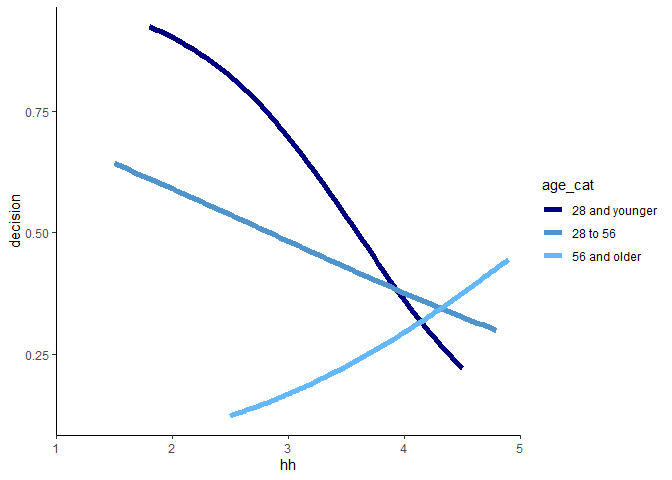
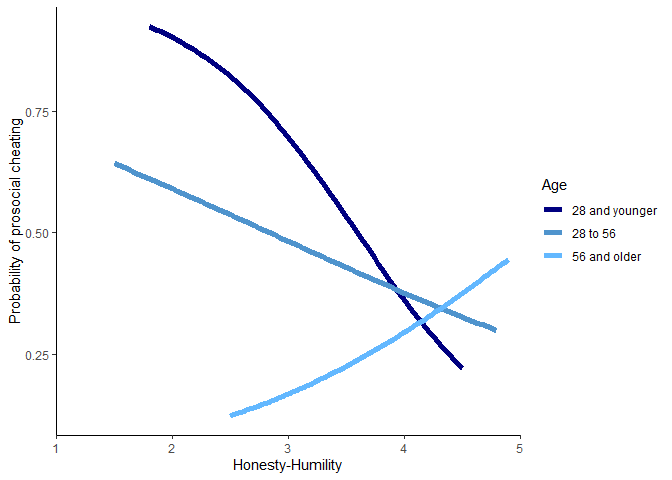
Done!

Changed region(s): [[0.0, 0.25, 0.0312, 0.6875], [0.3438, 0.9375, 0.5, 1.0], [0.7812, 0.375, 0.9062, 0.4062]]

diff --git a/portfolio-09.md b/portfolio-09.md
@@ -3,6 +3,40 @@ Portfolio-09
 Ben Hardin
 2023-04-20
 
+## Intro
+
+For this portfolio piece, I’m interested in running some moderation
+analyses with various combinations of dichotomous and continuous
+predictors and outcomes, and visualizing the results from those
+analyses. I’m also interested in learning a little bit about the
+relationship between the personality trait Honesty-Humility (HH) and
+benevolent lying. HH includes trait content related to both being nice
+to others and also being sincere and honest with others. Thus, it’s
+interesting to know what people who are relatively high on this trait do
+when telling the truth is not the nice thing to do.
+
+Luckily, there are two studies testing this question that have their
+data openly available on the internet (Thanks Paul, Ashton, & Lee (2022)
+and Thielmann, Hilbig, Klein, Seidl, and Heck (2023)!) One study tested
+whether HH is associated with people’s willingness to give dishonest
+positive feedback on an essay. Another study tested whether HH is
+associated with people’s willingness to lie about the outcome of an
+economic game so that someone else (either another player or a charity)
+can get money. I wanted to try to reproduce and compare the results of
+these two studies, and also test the moderating effects of some
+demographic variables (specifically age and gender) on the results.
+
+### Prosocial feedback
+
+In this study, the DV is the difference score between ratings that
+participants believed they were giving privately and ratings they
+believed they were giving directly to a hypothetical essay writer (the
+set up for this study was nearly identical to the one described in
+portfolio 8). A positive difference score is considered prosocial lying,
+with the assumption being that people intentionally inflated their
+feedback to be nice to the essay writer. Let’s first just predict the
+difference scores just from participants’ HH scores.
+
 ``` r
 library(tidyverse)
 ```
@@ -18,7 +52,14 @@ library(tidyverse)
 
 ``` r
 HH_feedback <- read.csv("data/HH-feedback.csv")
+## data available from: https://www.sciencedirect.com/science/article/pii/S0092656622000459
 ```
+
+We find a significant and positive association between HH and the
+difference scores, suggesting that higher HH is associated with a
+greater propensity to tell prosocial lies. The plot illustrates that
+there is a weak, positive linear association between these two
+variables.
 
 ``` r
 HH_model <- lm(data = HH_feedback, Lying ~ HH)
@@ -49,12 +90,30 @@ ggplot(HH_feedback, aes(x = HH, y = Lying))+
   geom_point(position = "jitter", alpha = 0.5)+
   geom_smooth(method = "lm", se = F, color = "steelblue3", linewidth = 2)+
   theme_classic()+
-  scale_x_continuous(limits = c(1, 5), expand = c(0, 0))
+  scale_x_continuous(limits = c(1, 5), expand = c(0, 0))+
+  labs(y = "Change in rating from Time 1 to Time 2",
+       x = "Honesty-Humility")
 ```
 
     ## `geom_smooth()` using formula = 'y ~ x'
 
 ![](portfolio-09_files/figure-gfm/plot-1-1.png)<!-- -->
+
+Now let’s test whether the participant’s gender may moderate the
+relationship between HH and prosocial lying. Although there are a number
+of possible gender identities, only a few people in the study reported a
+gender other than man or woman. Thus, in order to simplify the analysis,
+I excluded these people and examined gender as a binary variable.
+
+Results did not find a significant moderating effect of gender or a
+significant main effect of gender. Interestingly, the main effect of HH
+has also entirely disappeared in this model.
+
+Looking at the plot, we see there is descriptively an interaction in
+which men aren’t inflating feedback very much regardless of their level
+of HH, whereas women are inflating feedback more to the degree that they
+are high in HH. However, we can’t be very confident in whether these
+findings would generalize beyond this particular sample.
 
 ``` r
 HH_feedback <- HH_feedback %>%
@@ -86,12 +145,17 @@ summary(HH_moderation)
 
 ``` r
 ggplot(HH_feedback, aes(x = HH, y = Lying, group = Gender_bin))+
-  geom_point(aes(color = Gender_bin, shape = Gender_bin), position = "jitter", alpha = 0.25)+
+  geom_point(aes(color = Gender_bin, shape = Gender_bin), position = "jitter", alpha = 0.35)+
   geom_smooth(aes(color = Gender_bin), method = "lm", se = F, linewidth = 2.2)+
   scale_color_manual(values = c("steelblue2", "navy"))+
   theme_classic()+
   scale_x_continuous(limits = c(1, 5), expand = c(0, 0))+
-  scale_y_continuous(limits = c(-1, 1), expand = c(0, 0))
+  scale_y_continuous(limits = c(-1, 1), expand = c(0, 0))+
+  labs(y = "Change in rating from Time 1 to Time 2",
+       x = "Honesty-Humility",
+       group = "Gender",
+       color = "Gender",
+       shape = "Gender")
 ```
 
     ## `geom_smooth()` using formula = 'y ~ x'
@@ -101,6 +165,19 @@ ggplot(HH_feedback, aes(x = HH, y = Lying, group = Gender_bin))+
     ## Warning: Removed 13 rows containing missing values (`geom_point()`).
 
 ![](portfolio-09_files/figure-gfm/plot-2-1.png)<!-- -->
+
+Lastly, let’s test whether the relationship between HH and inflating
+feedback is moderated by age. Again, we don’t find any significant main
+effects or interactions.
+
+I did want to try plotting the simple slopes for the HH x age
+interaction, using a method developed by Rose Maier. One interesting
+thing is that there was relatively little variability in age, because
+these data were collected from a college sample (i.e., the standard
+deviation for age in this study was only 3 years). This may explain why
+age did not show any significant effects in this study. Descriptively,
+there is an interaction in which the association between HH and lying is
+greater for younger than for older participants.
 
 ``` r
 age_moderation <- lm(data = HH_feedback, Lying ~ HH * age)
@@ -128,6 +205,8 @@ summary(age_moderation)
     ## F-statistic: 1.247 on 3 and 201 DF,  p-value: 0.294
 
 ``` r
+## credit: https://blogs.uoregon.edu/rclub/2014/04/17/simple-slopes-in-ggplot2/
+
 young <- mean(HH_feedback$age, na.rm = T) - sd(HH_feedback$age, na.rm = T)
 avg <- mean(HH_feedback$age, na.rm = T)
 old <- mean(HH_feedback$age, na.rm = T) + sd(HH_feedback$age, na.rm = T)
@@ -147,19 +226,34 @@ ggplot(HH_feedback, aes(x = HH, y = Lying, group = age_cat))+
   annotate("text", label = "17 years", x = 4.75, y = -.35, color = "steelblue1")+
   theme_classic()+
   scale_x_continuous(limits = c(1, 5), expand = c(0, 0))+
-  scale_y_continuous(limits = c(-0.5, 0.5), expand = c(0, 0))
+  scale_y_continuous(limits = c(-0.5, 0.5), expand = c(0, 0))+
+  labs(y = "Change in rating from Time 1 to Time 2",
+       x = "Honesty-Humility")
 ```
 
 ![](portfolio-09_files/figure-gfm/simple-slopes-1.png)<!-- -->
 
 ### Prosocial coin-flip
 
+The DV in this study is whether participants reported “Heads” or “Tails”
+after privately flipping a coin, when saying “Heads” would send \$5 to
+another person or a charity. Since this is a dichotomous outcome, we’ll
+run a logistic regression predicting the decision to say either “Heads”
+or “Tails” from HH.
+
 ``` r
 HH_coin <- read.csv("data/HH-coin.csv")
 
 HH_coin <- HH_coin %>%
   filter(condition.cat != "pro-self")
+
+## data available from: https://onlinelibrary.wiley.com/doi/pdfdirect/10.1111/jopy.12835
 ```
+
+Results show a quite strong negative association between HH and
+reporting “Heads”. In logit speak, the odds ratio = .57. The plot
+illustrates this strong negative association between HH and the
+probability of reporting “Heads”.
 
 ``` r
 HH_logit <- glm(decision ~ hh, data = HH_coin, family = "binomial")
@@ -199,22 +293,43 @@ library(ggpointdensity)
 ggplot(HH_coin, aes(x = hh, y = decision))+
   geom_smooth(method = "glm", se = F, method.args = list(family = binomial), linewidth = 2, color = "steelblue2")+
   theme_classic()+
-  scale_x_continuous(limits = c(1, 5), expand = c(0, 0))
+  scale_x_continuous(limits = c(1, 5), expand = c(0, 0))+
+  labs(y = "Probability of prosocial cheating",
+       x = "Honesty-Humility")
 ```
 
     ## `geom_smooth()` using formula = 'y ~ x'
 
 ![](portfolio-09_files/figure-gfm/plot-logit-1.png)<!-- -->
 
+Next, let’s see whether gender (or, as it was collected in this study,
+sex) moderates the relationship between HH and prosocial cheating in
+this study. Descriptively, it looks like females are more likely to tell
+the truth than to tell a prosocial lie about the coin flip, whereas men
+are about equally likely to tell the truth vs. lie.
+
 ``` r
 HH_coin <- HH_coin %>%
   filter(sex == "Female" | sex == "Male")
 
 ggplot(HH_coin, aes(x = decision, fill = sex))+
-  geom_bar(color = "black", position = "dodge")
+  geom_bar(color = "black", position = "dodge")+
+  scale_y_continuous(limits = c(0, 161), expand = c(0, 0)) +
+  theme_classic()+
+  theme(axis.text.x=element_blank())+
+  annotate("text", label = "Lie", x = 1, y = 158)+
+  annotate("text", label = "Truth", x = 0, y = 158)+
+  labs(y = "Count",
+       x = "Decision")
 ```
 
 ![](portfolio-09_files/figure-gfm/sex-lying-1.png)<!-- -->
+
+After running a moderated logit regression, we see there is still a
+significant main of effect of HH, but no significant main effect or
+moderation by sex. The plot shows a descriptive interaction, whereby the
+probability of prosocial cheating is more strongly associated with HH
+for females than for men.
 
 ``` r
 sex_logit <- glm(decision ~ hh * sex, data = HH_coin, family = "binomial")
@@ -251,17 +366,26 @@ ggplot(HH_coin, aes(x = hh, y = decision, group = sex))+
   geom_smooth(aes(color = sex), method = "glm", se = F, method.args = list(family = binomial), linewidth = 2)+
   scale_color_manual(values = c("navy", "steelblue1"))+
   theme_classic()+
-  scale_x_continuous(limits = c(1, 5), expand = c(0, 0))
+  scale_x_continuous(limits = c(1, 5), expand = c(0, 0))+
+  labs(y = "Probability of prosocial cheating",
+       x = "Honesty-Humility")
 ```
 
     ## `geom_smooth()` using formula = 'y ~ x'
 
 ![](portfolio-09_files/figure-gfm/sex-logit-1.png)<!-- -->
 
+Lastly, we’ll again try out a moderation by age. Descriptively, we can
+see that there appears to be a pretty strong association such that the
+probability of cheating is lower as age increases. We also have a much
+wider range of ages here than we did in the previous study.
+
 ``` r
 ggplot(HH_coin, aes(x = age, y = decision))+
   geom_smooth(method = "glm", se = F, method.args = list(family = binomial), linewidth = 1.5, color = "black")+
-  theme_classic()
+  theme_classic()+
+  labs(y = "Probability of prosocial cheating",
+       x = "Age")
 ```
 
     ## `geom_smooth()` using formula = 'y ~ x'
@@ -269,6 +393,15 @@ ggplot(HH_coin, aes(x = age, y = decision))+
     ## Warning: Removed 1 rows containing non-finite values (`stat_smooth()`).
 
 ![](portfolio-09_files/figure-gfm/age-choice-1.png)<!-- -->
+
+A moderated logistic regression shows a strong main effect of HH and a
+strong main effect of age, such that as these increase the probability
+of prosocial cheating decreases. We also find a significant HH x age
+interaction. Looking at the predicted probabilities grouped by age, we
+see that the relationship between HH and the probability of cheating is
+highly negative for younger adults and becomes increasingly more
+positive as age increases. (This plot also looks like 3 strands of blue
+spaghetti, which is pretty cool.)
 
 ``` r
 age_logit <- glm(decision ~ hh * age, data = HH_coin, family = "binomial")
@@ -315,7 +448,11 @@ ggplot(HH_coin, aes(x = hh, y = decision, group = age_cat))+
   geom_smooth(aes(color = age_cat), method = "glm", se = F, method.args = list(family = binomial), linewidth = 2)+
   scale_color_manual(values = c("navy", "steelblue3", "steelblue1"))+
   theme_classic()+
-  scale_x_continuous(limits = c(1, 5), expand = c(0, 0))
+  scale_x_continuous(limits = c(1, 5), expand = c(0, 0))+
+  labs(y = "Probability of prosocial cheating",
+       x = "Honesty-Humility",
+       color = "Age",
+       group = "Age")
 ```
 
     ## `geom_smooth()` using formula = 'y ~ x'
